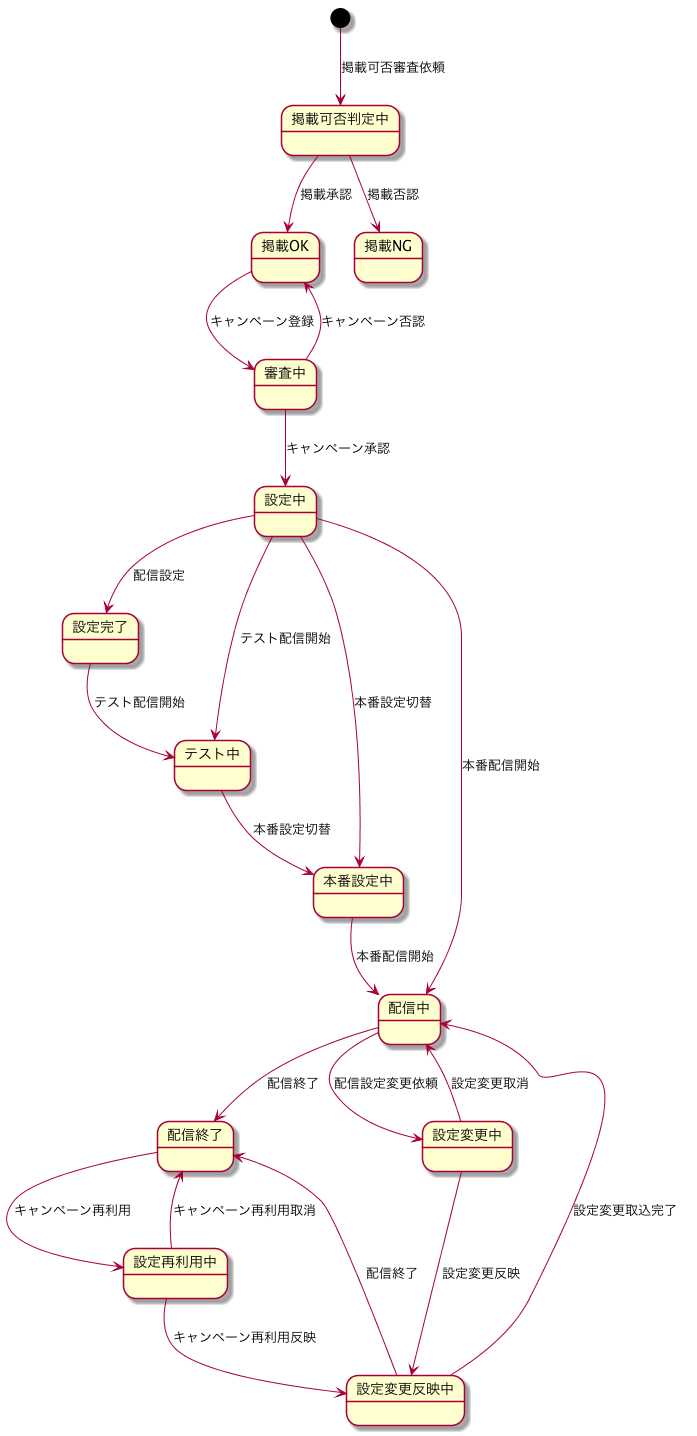
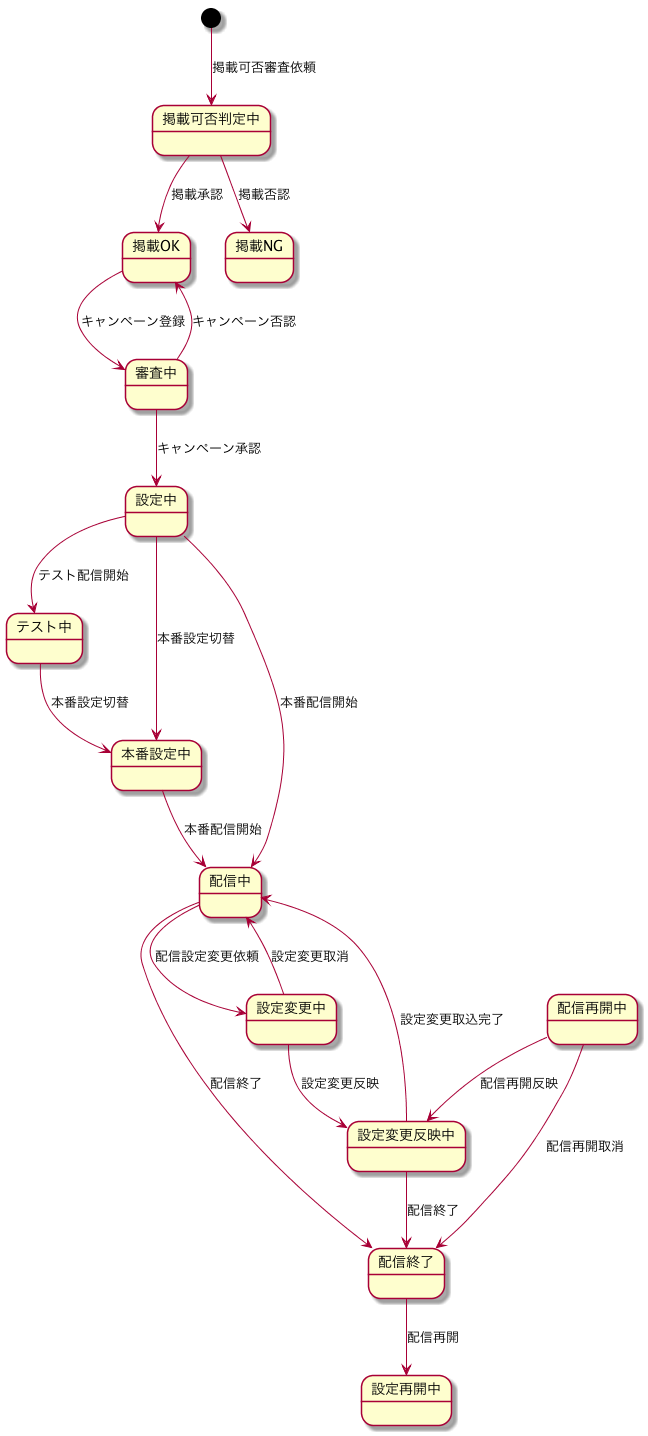
設定完了を削除
設定が反映されたら、即座にテストが始まるから

diff --git a/STATE.md b/STATE.md
@@ -13,7 +13,6 @@
 | disapproved | 掲載NG |
 | checking | 審査中 |
 | setting | 設定中 |
-| configured | 設定完了 |
 | testing | テスト中 |
 | preparing | 本番設定中 |
 | working | 配信中 |
